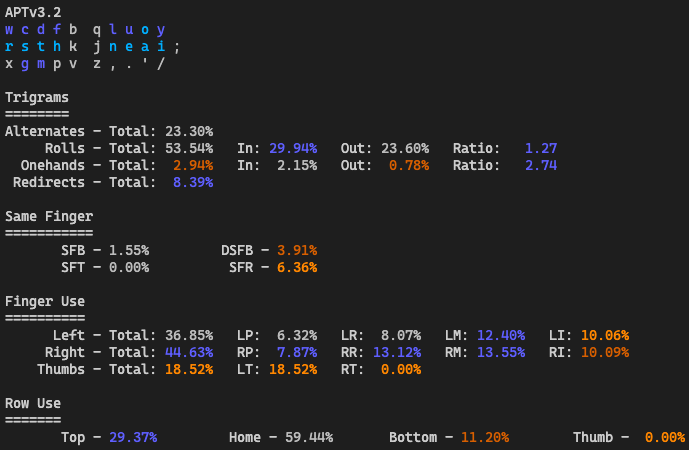
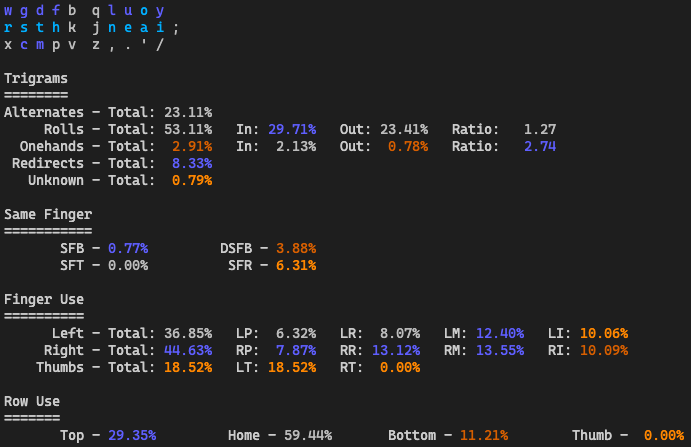
Update for latest a200 stats and gc swap

diff --git a/README.md b/README.md
@@ -3,9 +3,9 @@
 This is an alternate keyboard layout initially based on the work done in [MTGAP][1] and [CTGAP][2].
 
 ```txt
-w c d f b  q l u o y
+w g d f b  q l u o y
 r s t h k  j n e a i ;
-x g m p v  z , . ' /
+x c m p v  z , . ' /
 ```
 
 ## Angle Mod
@@ -17,12 +17,12 @@ This mod rotates the first 5 letters in the bottom row left by 1 spot, and the l
 This is what that looks like on APTv3:
 
 ```txt
-w c d f b q l u o y
+w g d f b q l u o y
  r s t h k j n e a i ;
-  g m p v x z , . ' /
+  c m p v x z , . ' /
 ```
 
-In this case, `g` is pressed with Ring, `m` with Middle, and `pvx` are all with Index.
+In this case, `c` is pressed with Ring, `m` with Middle, and `pvx` are all with Index.
 
 ## Genkey
 
